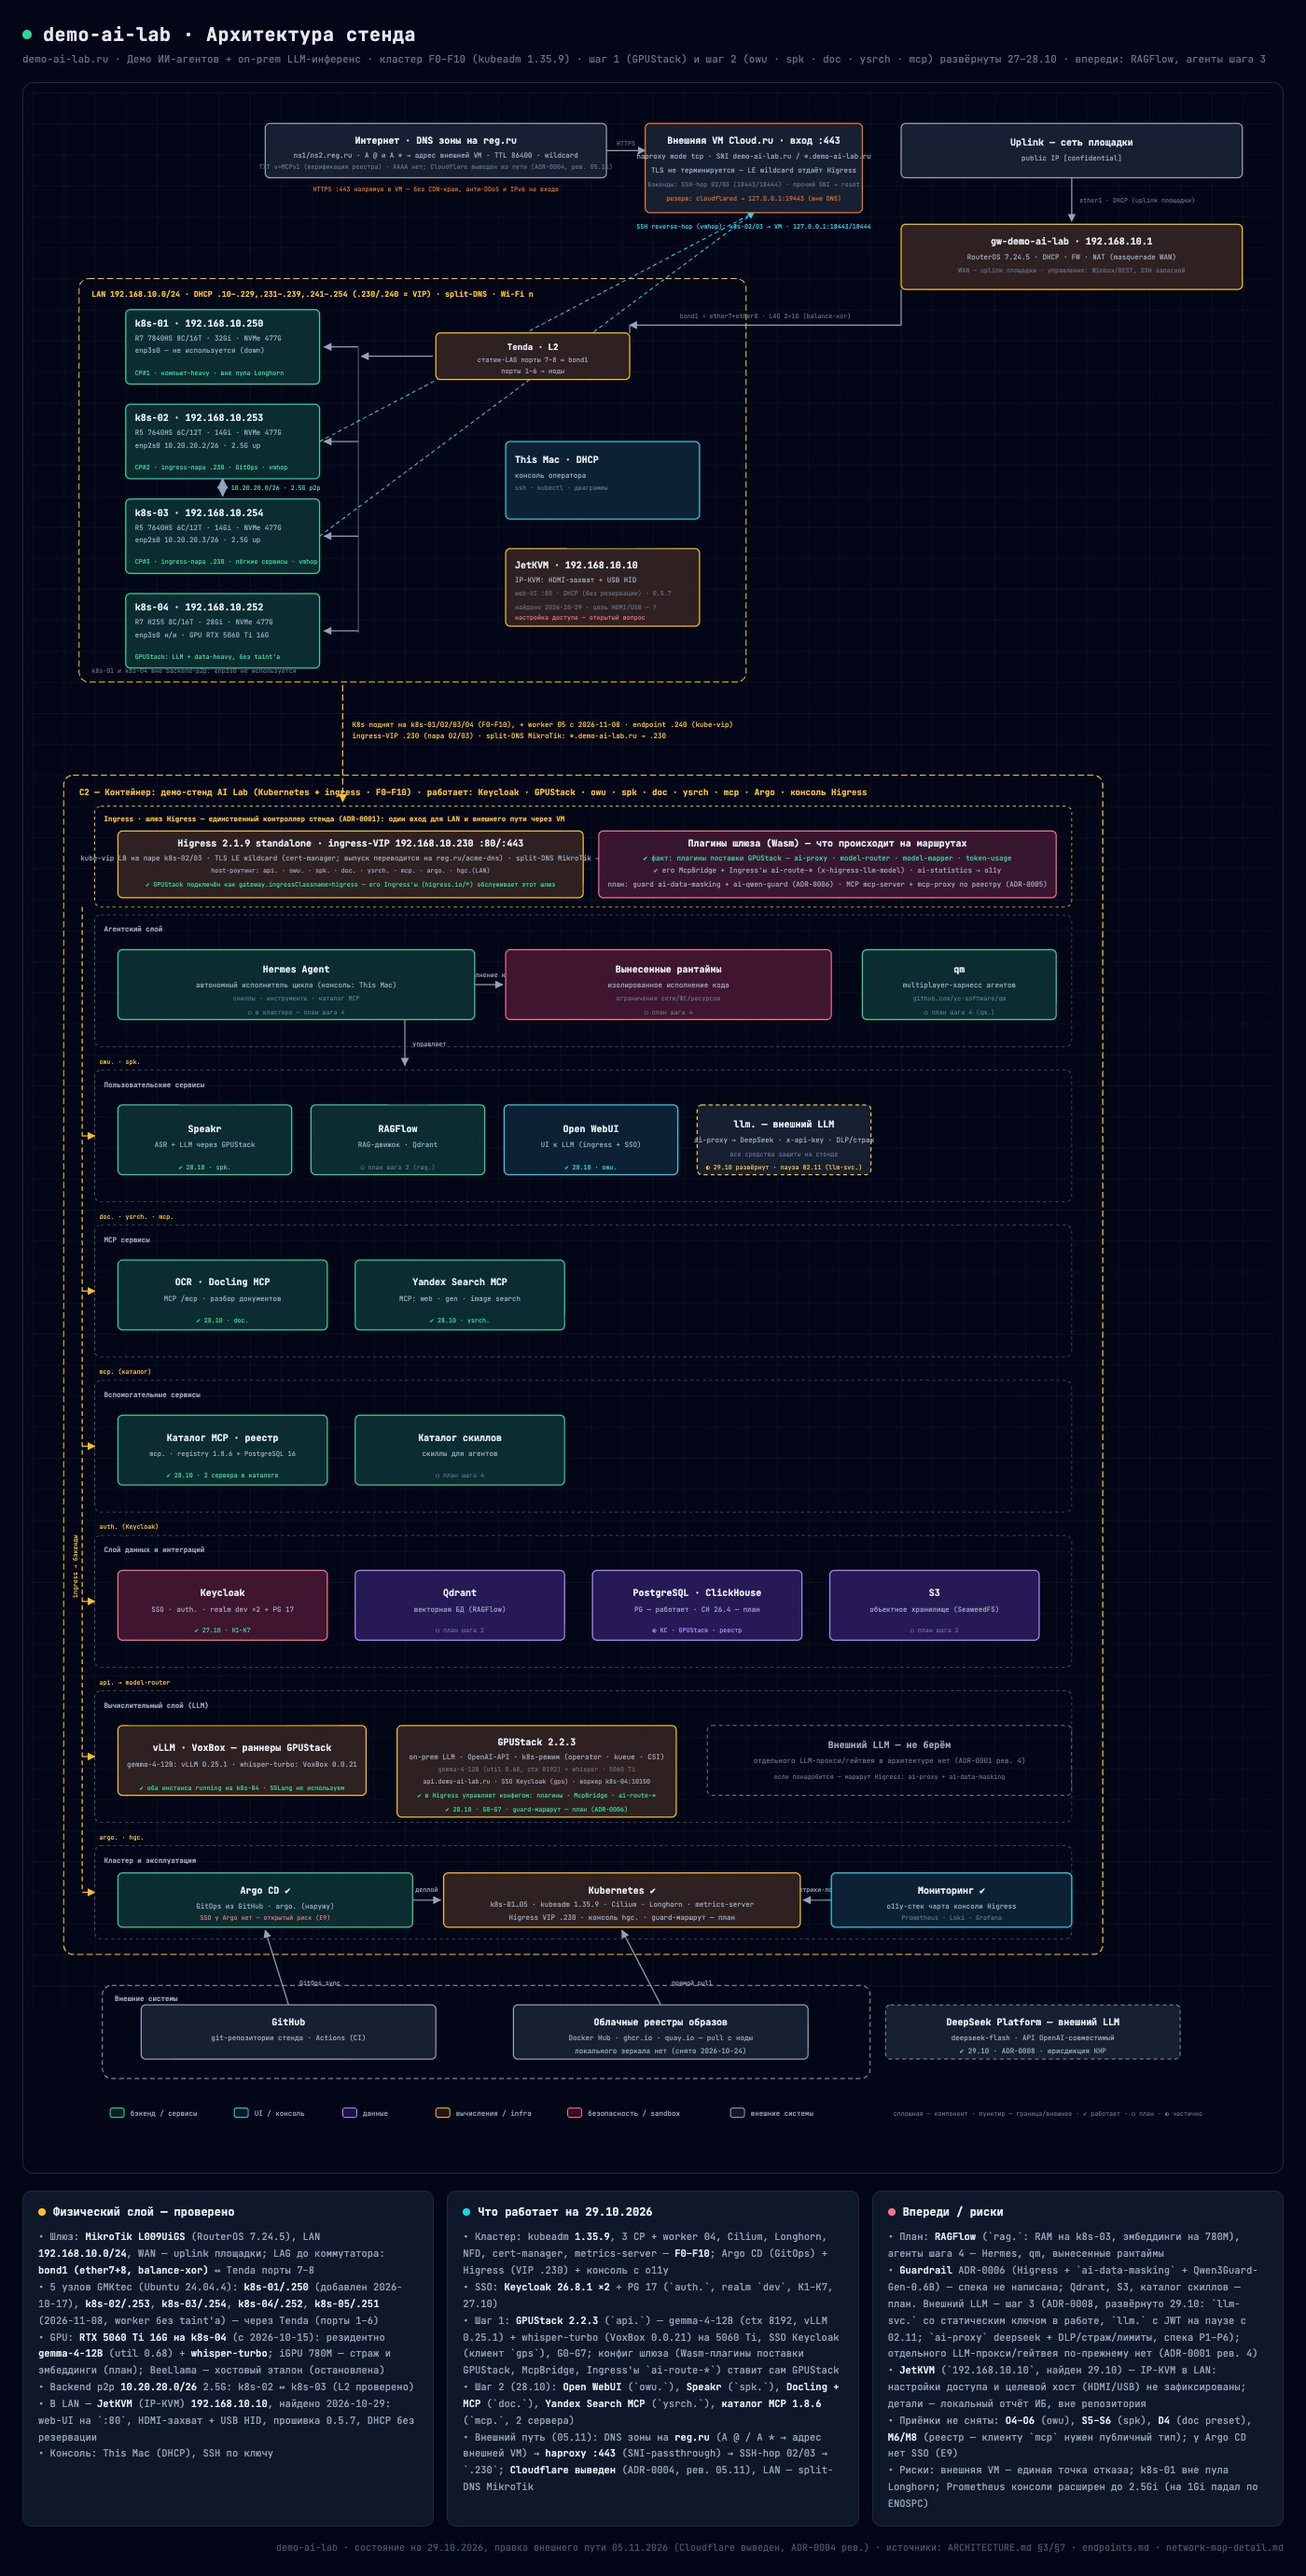
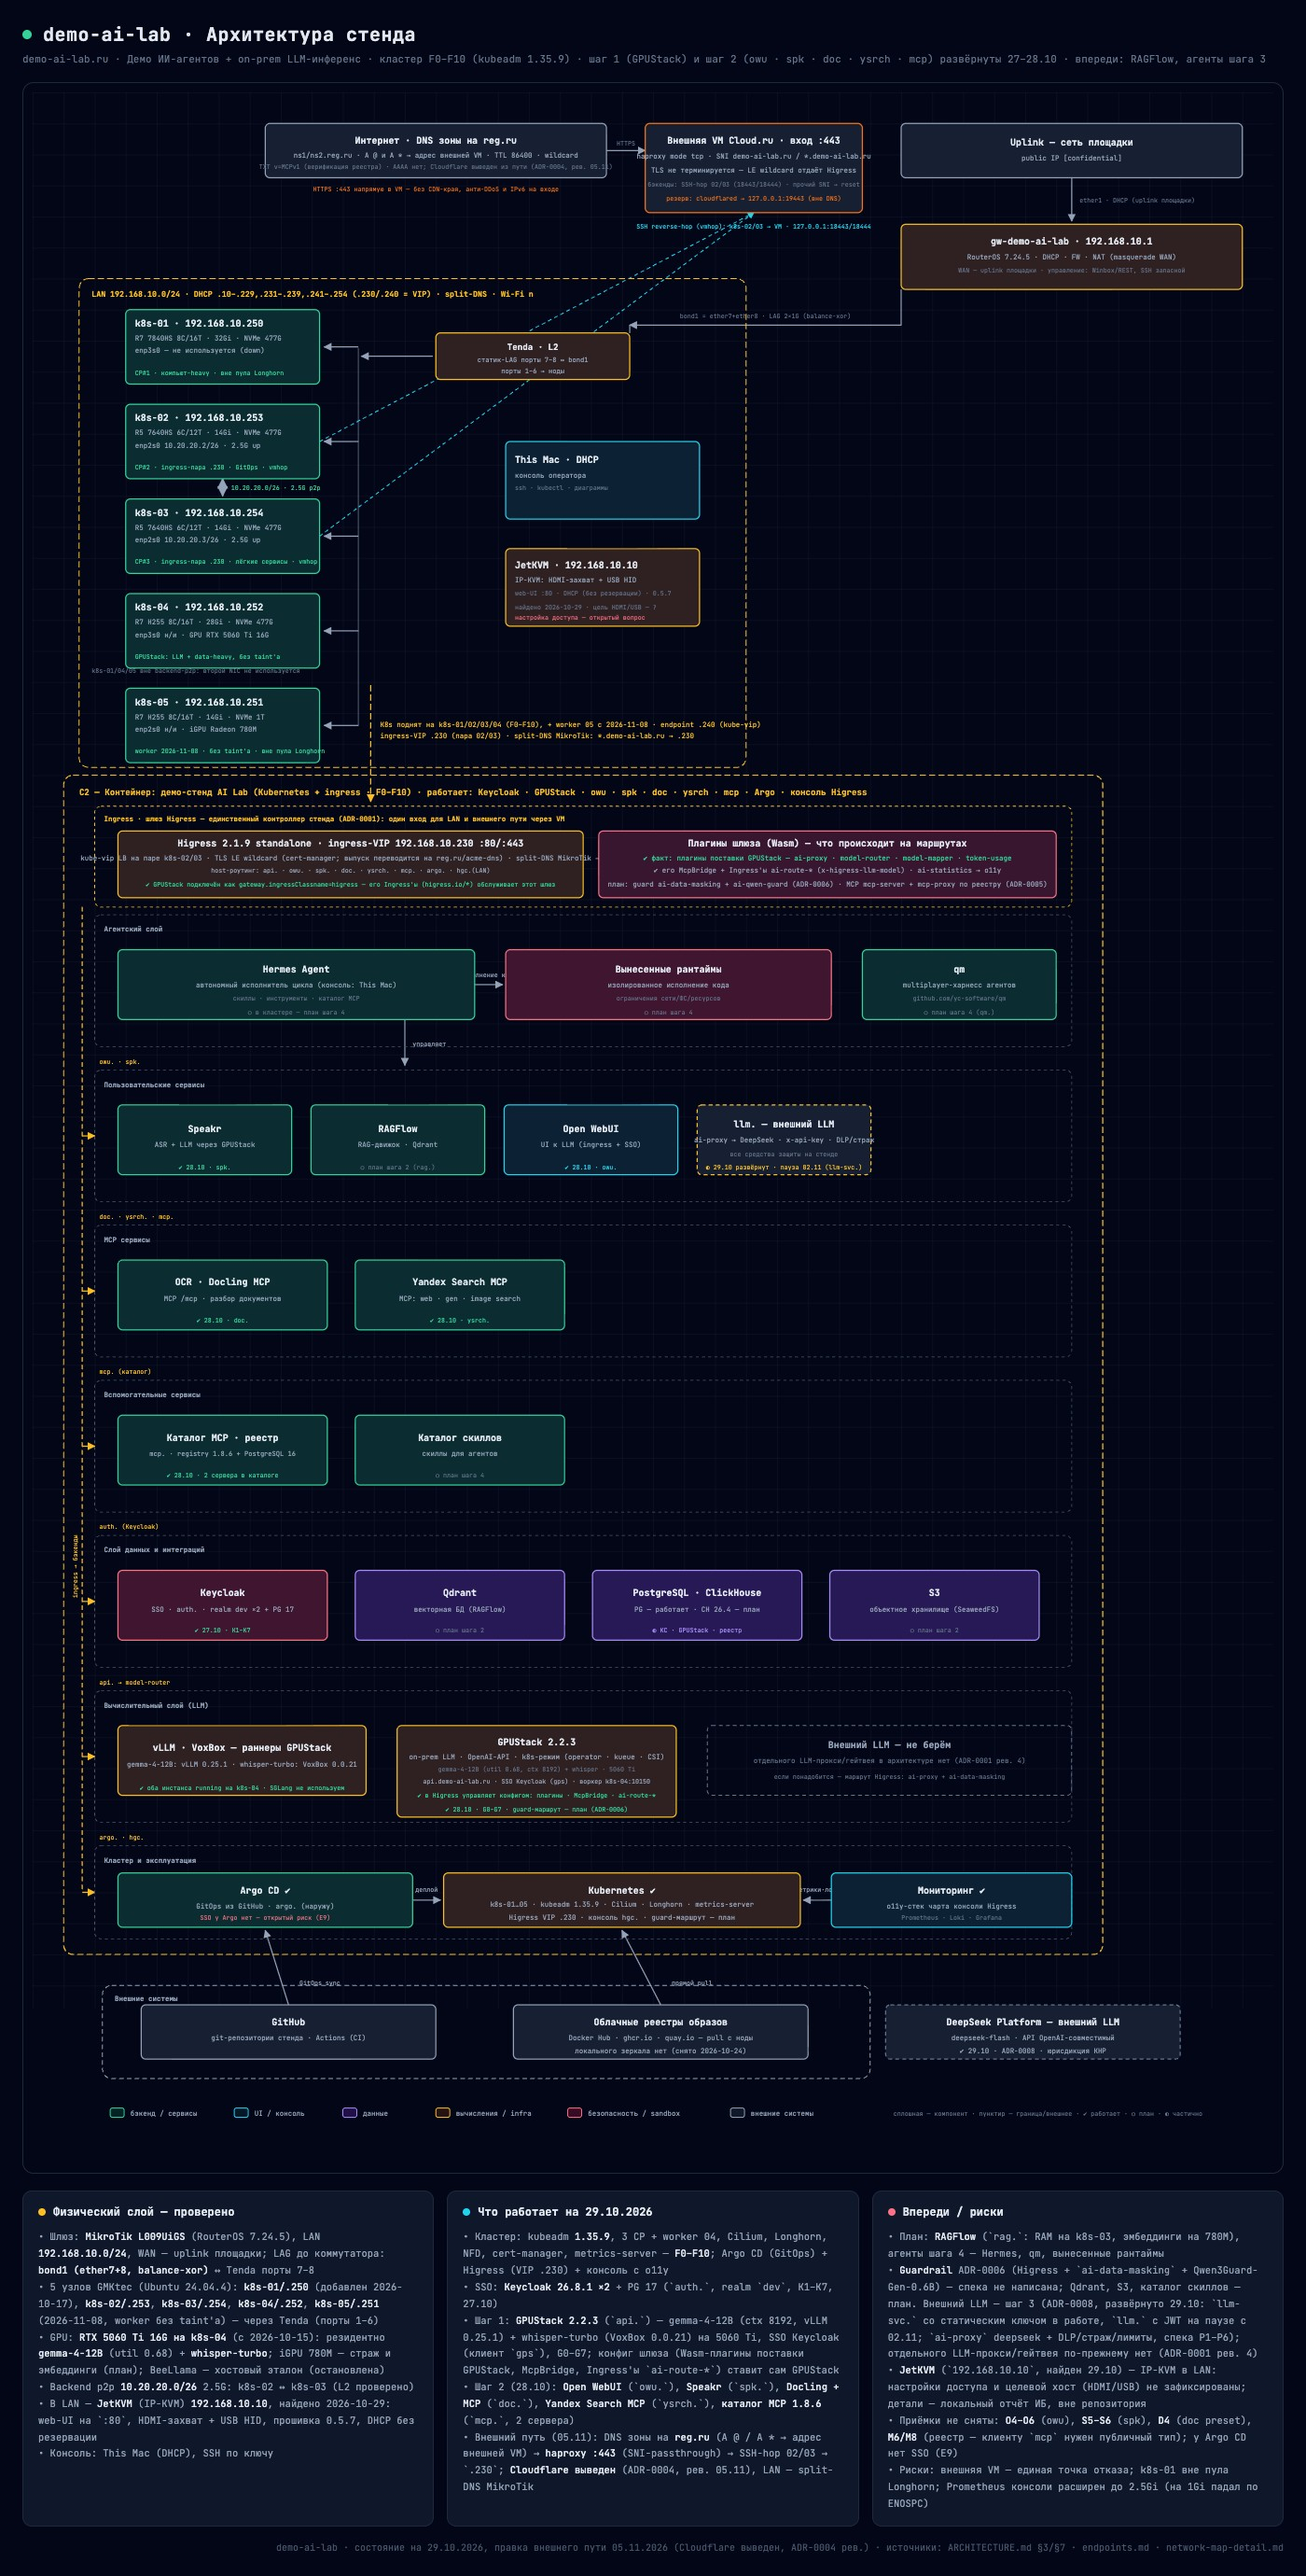
диаграмма: k8s-05 в топологии LAN (пятая карточка, шина/рамка/подписи)

Changed region(s): [[0.0921, 0.2493, 0.5221, 0.3116]]

diff --git a/architecture/demo-ai-lab-architecture.html b/architecture/demo-ai-lab-architecture.html
@@ -91,18 +91,19 @@
   <text x="945" y="291" font-size="8" fill="#64748b" text-anchor="middle">bond1 = ether7+ether8 · LAG 2×1G (balance-xor)</text>
   <!-- tenda -> LAN bus -> nodes -->
   <line x1="516" y1="340" x2="424" y2="340" stroke="#94a3b8" stroke-width="1.5" marker-end="url(#arr)"/>
-  <line x1="420" y1="330" x2="420" y2="696" stroke="#64748b" stroke-width="1"/>
+  <line x1="420" y1="330" x2="420" y2="816" stroke="#64748b" stroke-width="1"/>
   <line x1="420" y1="328" x2="376" y2="328" stroke="#94a3b8" stroke-width="1.5" marker-end="url(#arr)"/>
   <line x1="420" y1="450" x2="376" y2="450" stroke="#94a3b8" stroke-width="1.5" marker-end="url(#arr)"/>
   <line x1="420" y1="572" x2="376" y2="572" stroke="#94a3b8" stroke-width="1.5" marker-end="url(#arr)"/>
   <line x1="420" y1="694" x2="376" y2="694" stroke="#94a3b8" stroke-width="1.5" marker-end="url(#arr)"/>
+  <line x1="420" y1="816" x2="376" y2="816" stroke="#94a3b8" stroke-width="1.5" marker-end="url(#arr)"/>
   <!-- p2p backend -->
   <line x1="245" y1="498" x2="245" y2="520" stroke="#34d399" stroke-width="2" marker-start="url(#arr)" marker-end="url(#arr)"/>
   <text x="256" y="513" font-size="8" fill="#34d399">10.20.20.0/26 · 2.5G p2p</text>
   <!-- bridge: LAN -> C2 -->
-  <line x1="400" y1="764" x2="400" y2="914" stroke="#fbbf24" stroke-width="1.5" stroke-dasharray="8,4" marker-end="url(#arrAmber)"/>
-  <text x="412" y="818" font-size="9" fill="#fbbf24">K8s поднят на k8s-01/02/03/04 (F0–F10), + worker 05 с 2026-11-08 · endpoint .240 (kube-vip)</text>
-  <text x="412" y="833" font-size="9" fill="#fbbf24">ingress-VIP .230 (пара 02/03) · split-DNS MikroTik: *.demo-ai-lab.ru → .230</text>
+  <line x1="436" y1="764" x2="436" y2="914" stroke="#fbbf24" stroke-width="1.5" stroke-dasharray="8,4" marker-end="url(#arrAmber)"/>
+  <text x="448" y="818" font-size="9" fill="#fbbf24">K8s поднят на k8s-01/02/03/04 (F0–F10), + worker 05 с 2026-11-08 · endpoint .240 (kube-vip)</text>
+  <text x="448" y="833" font-size="9" fill="#fbbf24">ingress-VIP .230 (пара 02/03) · split-DNS MikroTik: *.demo-ai-lab.ru → .230</text>
 
   <!-- C2 internal -->
   <!-- A: hermes -> runtimes -->
@@ -134,9 +135,9 @@
 
   <!-- ==================== BOUNDARIES ==================== -->
   <!-- LAN region -->
-  <rect x="60" y="240" width="860" height="520" rx="12" fill="none" stroke="#fbbf24" stroke-width="1.2" stroke-dasharray="8,4"/>
+  <rect x="60" y="240" width="860" height="630" rx="12" fill="none" stroke="#fbbf24" stroke-width="1.2" stroke-dasharray="8,4"/>
   <text x="76" y="264" font-size="10" fill="#fbbf24" font-weight="700">LAN 192.168.10.0/24 · DHCP .10–.229,.231–.239,.241–.254 (.230/.240 = VIP) · split-DNS · Wi-Fi n</text>
-  <text x="76" y="748" font-size="8" fill="#64748b">k8s-01 и k8s-04 вне backend-p2p: enp3s0 не используется</text>
+  <text x="76" y="748" font-size="8" fill="#64748b">k8s-01/04/05 вне backend-p2p: второй NIC не используется</text>
 
   <!-- C2 container -->
   <rect x="40" y="880" width="1340" height="1520" rx="12" fill="none" stroke="#fbbf24" stroke-width="1.4" stroke-dasharray="8,4"/>
@@ -269,6 +270,14 @@
   <text x="132" y="686" font-size="9" fill="#94a3b8">R7 H255 8C/16T · 28Gi · NVMe 477G</text>
   <text x="132" y="702" font-size="9" fill="#94a3b8">enp3s0 н/и · GPU RTX 5060 Ti 16G</text>
   <text x="132" y="730" font-size="8" fill="#34d399">GPUStack: LLM + data-heavy, без taint'а</text>
+
+  <!-- k8s-05 (emerald, добавлена 2026-11-08) -->
+  <rect x="120" y="768" width="250" height="96" rx="6" fill="#0f172a"/>
+  <rect x="120" y="768" width="250" height="96" rx="6" fill="rgba(6,78,59,0.4)" stroke="#34d399" stroke-width="1.5"/>
+  <text x="132" y="790" font-size="12" fill="#e2e8f0" font-weight="700">k8s-05 · 192.168.10.251</text>
+  <text x="132" y="808" font-size="9" fill="#94a3b8">R7 H255 8C/16T · 14Gi · NVMe 1T</text>
+  <text x="132" y="824" font-size="9" fill="#94a3b8">enp2s0 н/и · iGPU Radeon 780M</text>
+  <text x="132" y="852" font-size="8" fill="#34d399">worker 2026-11-08 · без taint'а · вне пула Longhorn</text>
 
   <!-- Mac (cyan) -->
   <rect x="610" y="450" width="250" height="100" rx="6" fill="#0f172a"/>
